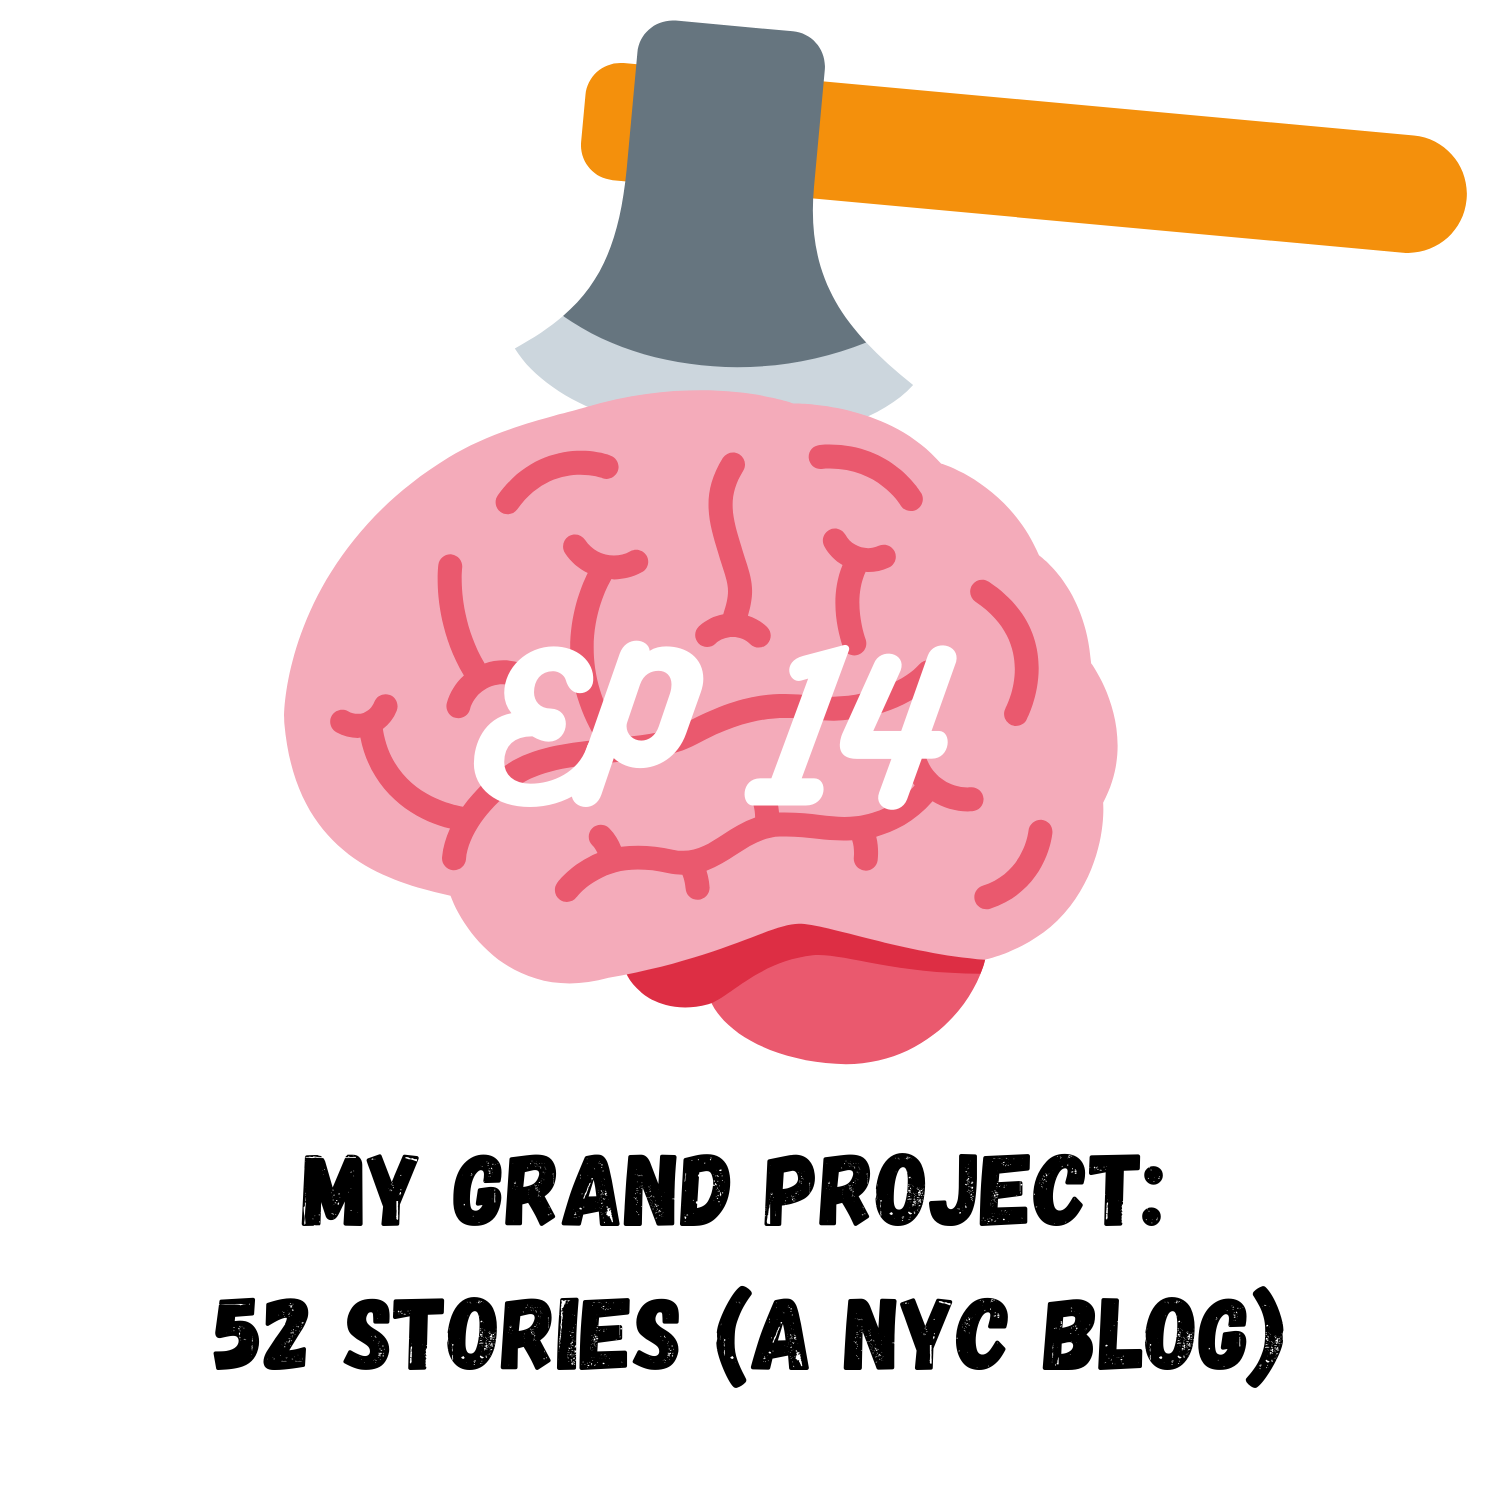
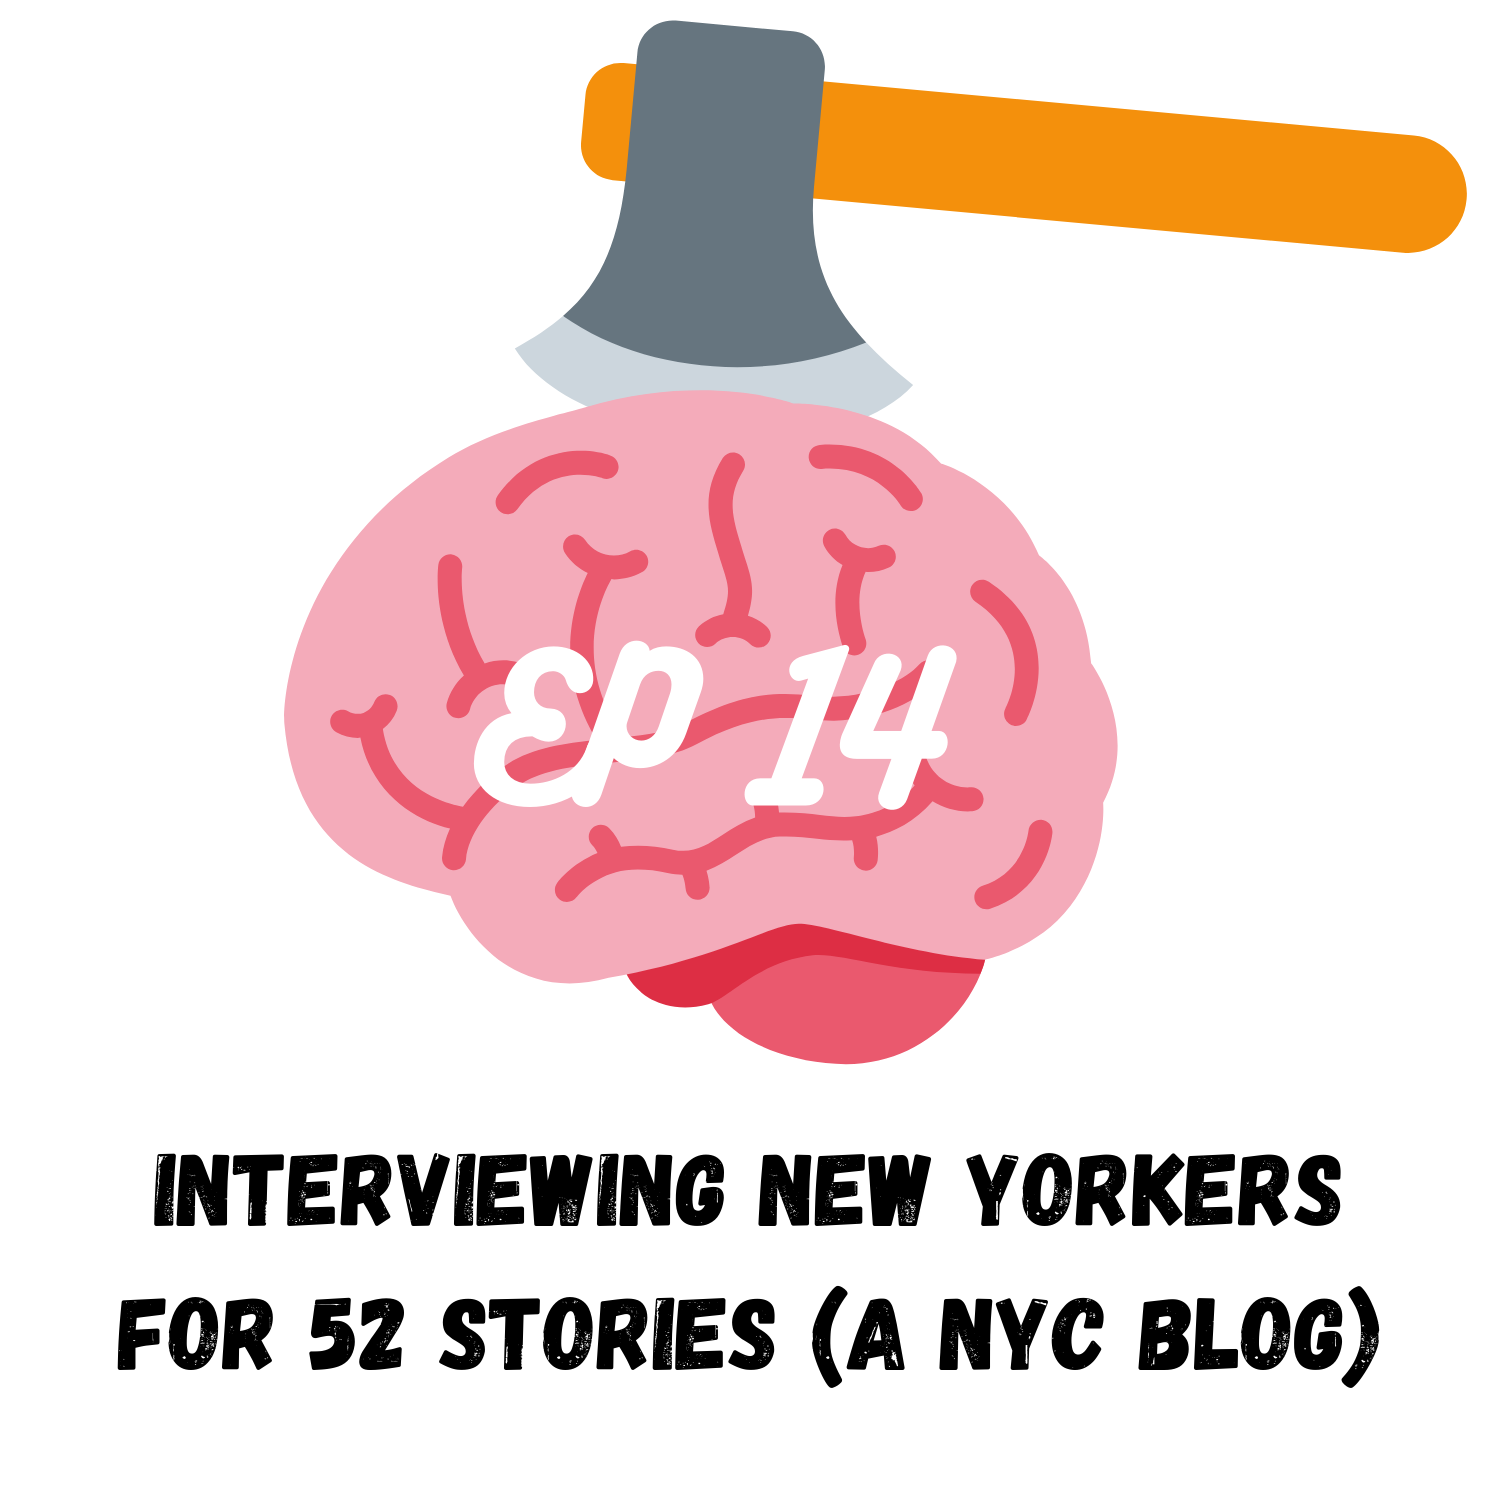
Add ep 20 - itsoverpod

Changed region(s): [[0.0613, 0.8587, 0.92, 0.92], [0.092, 0.7667, 0.8893, 0.828]]

diff --git a/itsoverpod/episode20.html b/itsoverpod/episode20.html
@@ -6,8 +6,7 @@
 -->
 <html>
 	<head>
-		<title>It's Over!</title>
-		<meta charset="utf-8" />
+		<title>Episode 20 • It's Over Pod</title>
 		<meta name="author" 	 content="It's Over Podcast" />
 		<meta name="keywords" 	 content="it's over podcast, its over podcast, it's over pod, its over pod, itsoverpod" />
 		<meta name="description" content="'It was all Greek to me at first,' said the Roman, 'but thank god I learned Latin.' Join Rich and Pat as they learn how to start conversations and navigate college-adult life." />
@@ -21,6 +20,8 @@
 		<meta property="og:locale" 		 content="en_US" />
 		<meta property="og:description"  content="'It was all Greek to me at first,' said the Roman, 'but thank god I learned Latin.' Join Rich and Pat as they learn how to start conversations and navigate college-adult life." />
 		<meta property="og:image" 		 content="http://itsoverpod.com/images/logo.png" />
+		<meta property="og:image:width"  content="500" />
+		<meta property="og:image:height" content="500" />
 
 		<!-- Favicon -->
 		<link rel="shortcut icon" type="image/png" href="images/logo.png" />
@@ -31,68 +32,27 @@
 	<body class="is-preload">
 		<!-- Wrapper -->
 		<div id="wrapper">
-
+			
 			<!-- Header -->
 			<script src="header.js"></script>
 
 			<!-- Main -->
 			<div id="main">
 				<div class="inner">
+					<h1>Episode 20 - The Reality of Being a Teacher - Rebekah Ramirez</h1>
 					
-					<header>
-						<h1>It's Over!</h1>
-						<p>Join Rich and Pat as they navigate college-adult life in LA and bring on their friends to share their stories and grand projects with the world. New episode every Wednesday!</p>
-						<p>Tune in on:
-							<script src="podcast-distribution-links.js"></script>
-						</p>
-						<center>
-							<h2>Recent Guests</h2>
-						</center>
-					</header>
+					<p>
+						<strong>December 2, 2020 </strong><br><br>
+						Being a teacher is hard but rewarding.<br><br>
 
-					<section class="tiles">
-
-						<article>
-							<span class="image">
-								<img src="images/guests/ep20.jpg" alt="Episode 20 Guest" />
-								<img class="cover-art" src="images/cover-art/ep20.png" alt="Episode 20 Cover Art" />
-							</span>
-							<a href="episode20">
-								<div class="content">
-									<!-- <h2></h2> -->
-								</div>
-							</a>
-						</article>
-
-						<article>
-							<span class="image">
-								<img src="images/guests/ep19.jpg" alt="Episode 19 Guest" />
-								<img class="cover-art" src="images/cover-art/ep19.png" alt="Episode 19 Cover Art" />
-							</span>
-							<a href="episode19">
-								<div class="content">
-									<!-- <h2></h2> -->
-								</div>
-							</a>
-						</article>
-
-						<article>
-							<span class="image">
-								<img src="images/guests/ep18.jpg" alt="Episode 18 Guest" />
-								<img class="cover-art" src="images/cover-art/ep18.png" alt="Episode 18 Cover Art" />
-							</span>
-							<a href="episode18">
-								<div class="content">
-									<!-- <h2></h2> -->
-								</div>
-							</a>
-						</article>
-						
-					</section>
-
-					<br><br>
+						Tune in on:
+						<script src="podcast-distribution-links.js"></script>
+					</p>
+					
+					<iframe src="https://anchor.fm/itsover/embed/episodes/Ep-20---The-Reality-of-Being-a-Teacher---Rebekah-Ramirez-en8caa" height="auto" width="100%" frameborder="0" scrolling="no"></iframe><br><br>
+					
 					<div class="align-center">
-						<a href="episodes" class="button">See all episodes</a>
+						<a href="episodes" class="button">More episodes</a>
 					</div>
 				</div>
 			</div>

diff --git a/itsoverpod/episode14.html b/itsoverpod/episode14.html
@@ -39,11 +39,11 @@
 			<!-- Main -->
 			<div id="main">
 				<div class="inner">
-					<h1>Episode 14 - My Grand Project: 52 Stories (a NYC blog) - Stephanie Del Paggio</h1>
+					<h1>Episode 14 - Interviewing New Yorkers for 52 Stories (a NYC blog) - Stephanie Del Paggio</h1>
 					
 					<p>
 						<strong>October 7, 2020</strong><br><br>
-						How interviewing New Yorkers in the streets, coffee shops, and underground subway turned into a <a target="_blank" href="https://52storiesnyc.com/">massive blog.</a><br><br>
+						How interviewing New Yorkers in the streets, coffee shops, and underground subway turned into a massive blog. Read about their stories at <a target="_blank" href="https://52storiesnyc.com/">52storiesnyc.com</a>.<br><br>
 
 						Tune in on:
 						<script src="podcast-distribution-links.js"></script>

diff --git a/itsoverpod/episodes.html b/itsoverpod/episodes.html
@@ -52,6 +52,18 @@
 					<section class="tiles">
 						<article>
 							<span class="image">
+								<img src="images/guests/ep20.jpg" alt="Episode 20 Guest" />
+								<img class="cover-art" src="images/cover-art/ep20.png" alt="Episode 20 Cover Art" />
+							</span>
+							<a href="episode20">
+								<div class="content">
+									<!-- <h2></h2> -->
+								</div>
+							</a>
+						</article>
+
+						<article>
+							<span class="image">
 								<img src="images/guests/ep19.jpg" alt="Episode 19 Guest" />
 								<img class="cover-art" src="images/cover-art/ep19.png" alt="Episode 19 Cover Art" />
 							</span>

diff --git a/itsoverpod/episode19.html b/itsoverpod/episode19.html
@@ -43,7 +43,7 @@
 					
 					<p>
 						<strong>November 25, 2020</strong><br><br>
-						On pitching to VCs, the highs and lows of entrepreneurship, and taking the leap of faith into startup land. Exciting stuff to come at <a target="_blank" href="https://zette.media/">zette.media</a>.<br><br>
+						On the highs and lows of entrepreneurship and taking the leap of faith into startup land. Exciting stuff to come at <a target="_blank" href="https://zette.media/">zette.media</a>.<br><br>
 
 						Tune in on:
 						<script src="podcast-distribution-links.js"></script>

diff --git a/projects.html b/projects.html
@@ -198,7 +198,7 @@
 							<div class="card-body">
 								<h5 class="card-title center">Red-Black Tree</h5>
 								<p class="card-text">
-									An app that allows you to visualize insertion and deletion of nodes in a red-black (self-balancing) tree.
+									An app that allows you to visualize insertion and deletion of nodes in a red-black tree.
 								</p>
 							</div>
 						</a>
